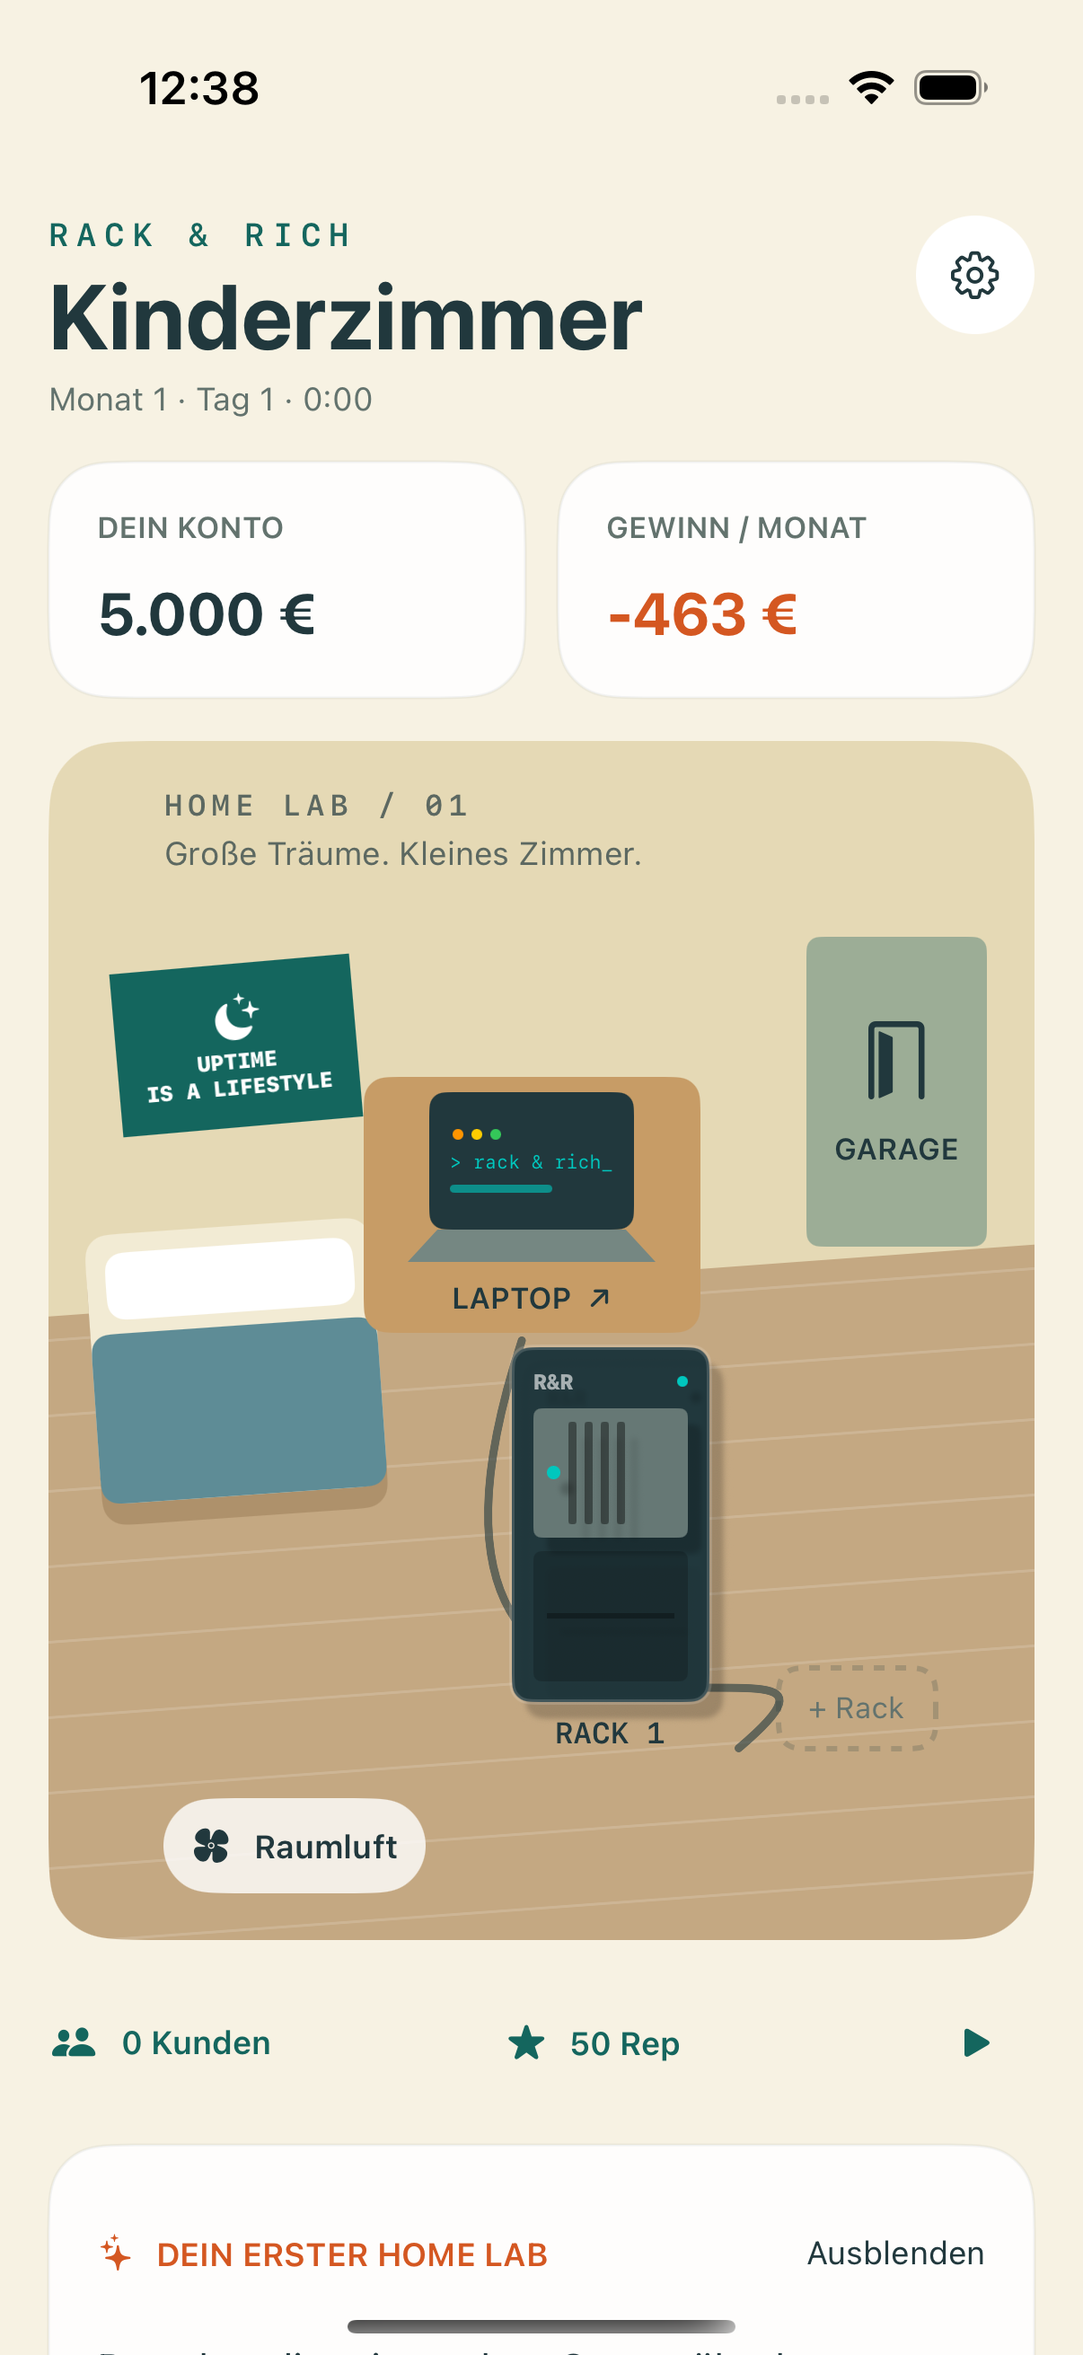
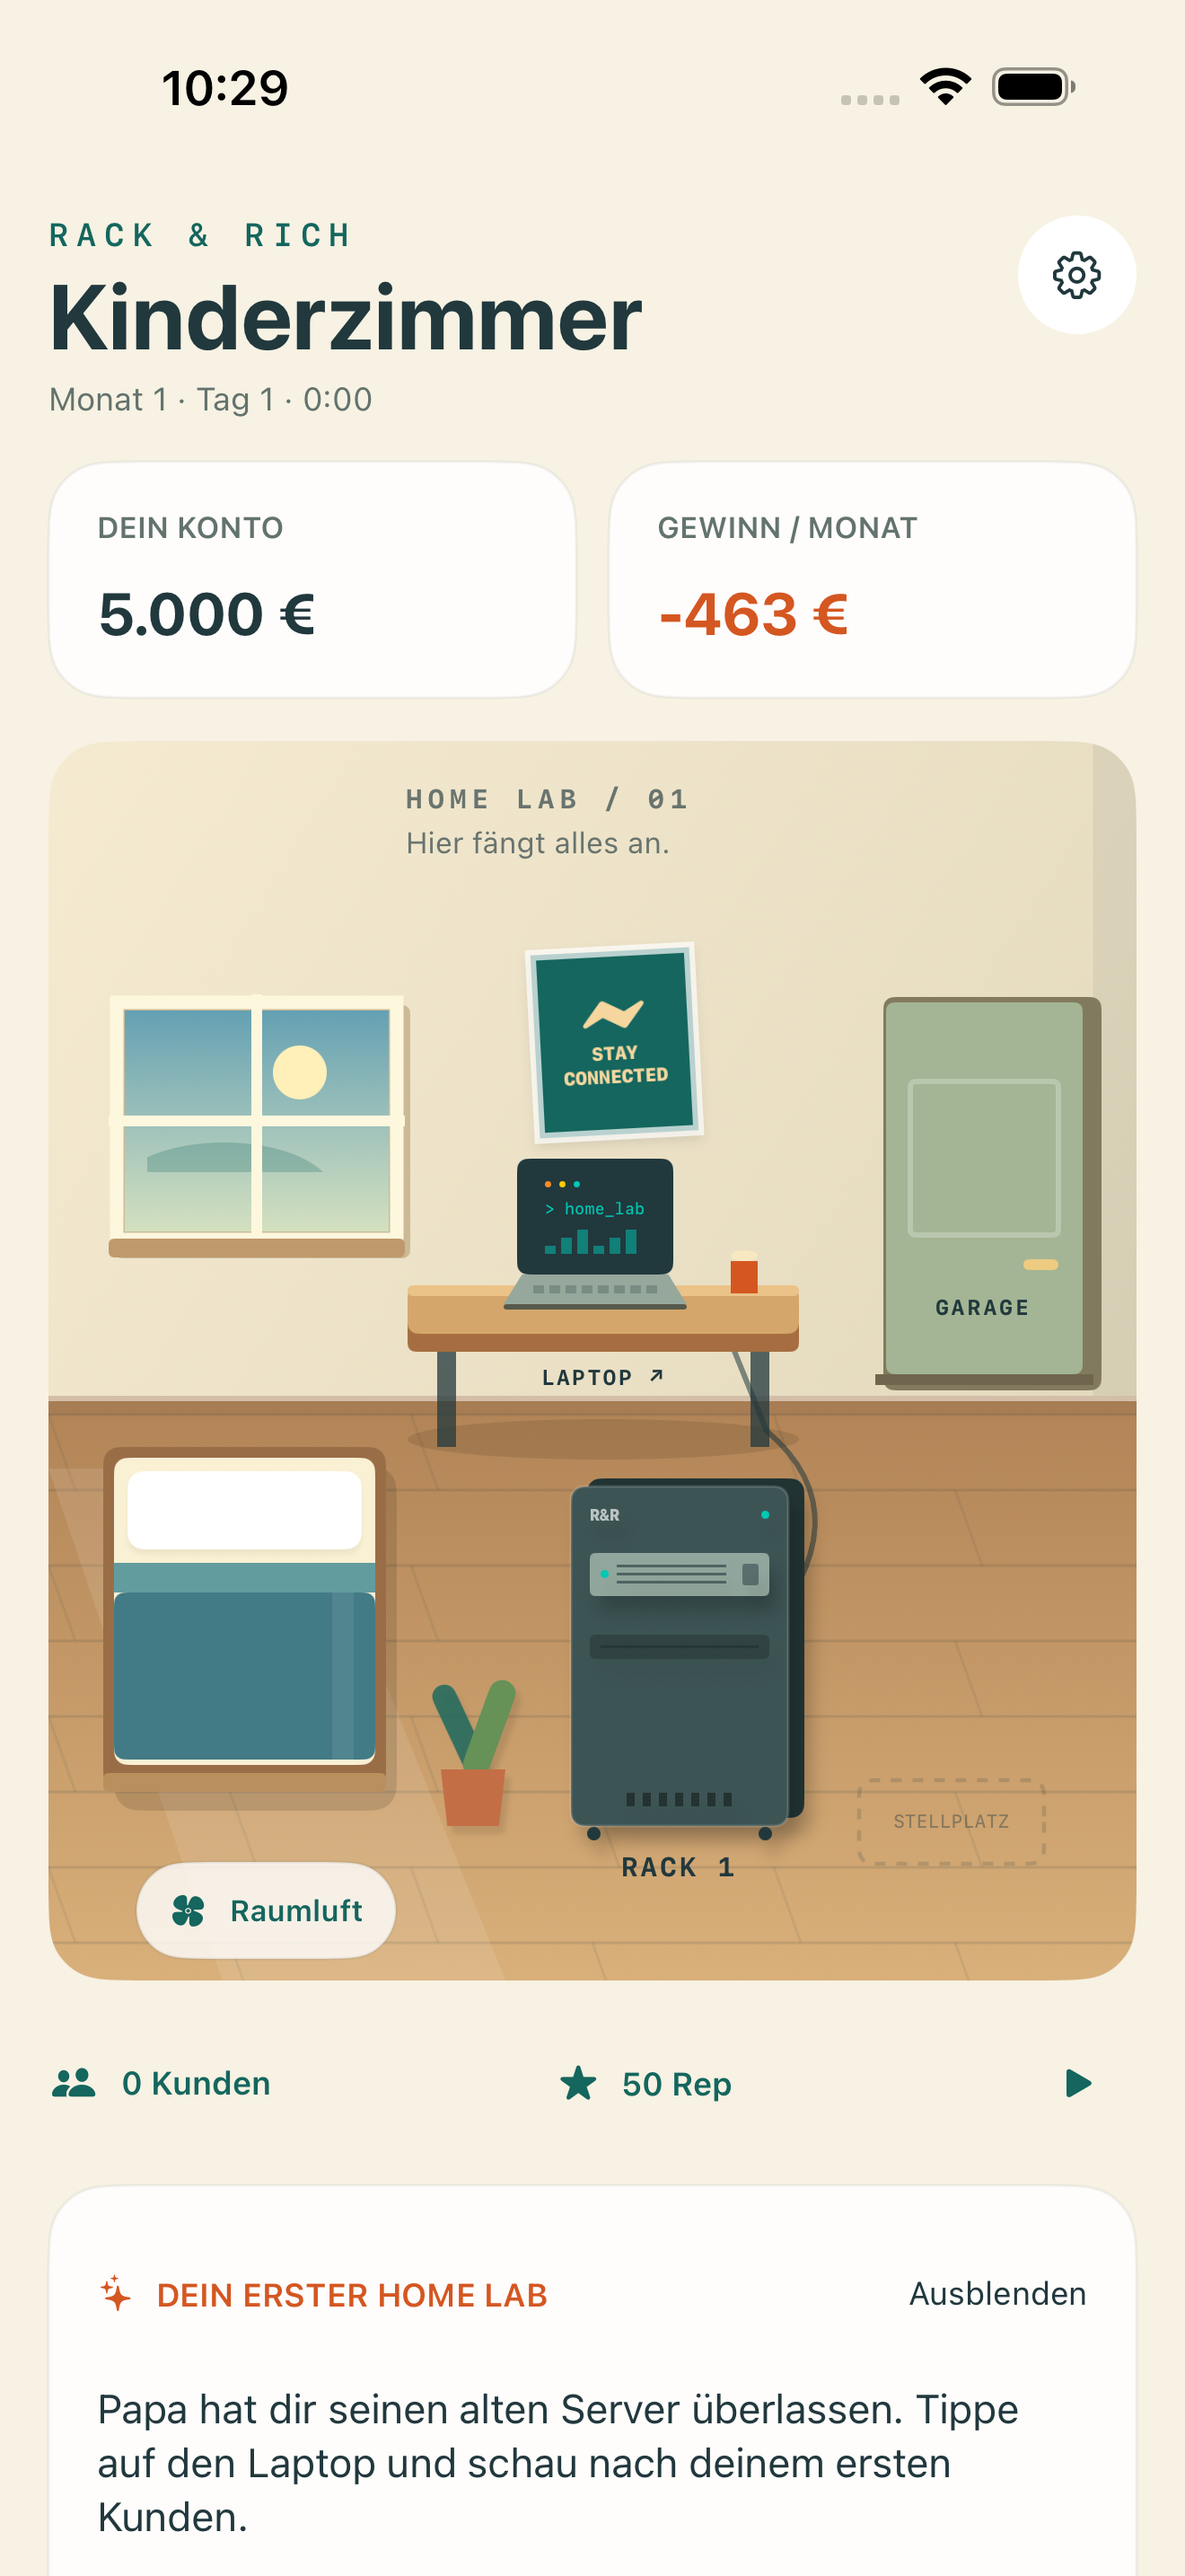
docs(release): record validation and updated room screenshots

diff --git a/games/datacenter-tycoon/Docs/VALIDATION.md b/games/datacenter-tycoon/Docs/VALIDATION.md
@@ -1,17 +1,25 @@
-# Validierungsprotokoll
+# Validierungsprotokoll — v0.1.0
 
-Stand: 14. September 2026. Release-Prüfung läuft noch.
+Stand: 14. September 2026. Die Release-Pipeline prüft den finalen Tag erneut vor der Veröffentlichung.
 
-## Bestätigt
+## Prüfumfang
 
-- 28 Swift-Core-Tests auf Linux/Swift 6.2.3 erfolgreich; dieselben 28 Tests auch auf macOS und im iOS-Simulator erfolgreich.
-- Nativer iOS-Simulatorbuild kompiliert ohne Swift-Compilerwarnungen. Xcode meldet lediglich die nicht benötigte AppIntents-Metadatenextraktion als übersprungen.
-- Save/Load-Roundtrip, atomare Sicherung, beschädigte/neue Save-Versionen, Offline-Cap und Uhrzeit-Rücksprünge getestet.
-- Hardwarekauf, Generationenwechsel, RAM-Slots, Rack-/Raum-Stromgrenzen und Customer-Host-Zuweisung getestet.
-- Monatsabrechnung einschließlich zeitanteiliger Verträge, Tarifwechsel, Strom, Miete und zeitlich begrenzter Starthilfe getestet.
-- Garage mit allen vier Voraussetzungen und erfolgreichem Betrieb getestet. Erfolgszähler endet bei 24 Stunden.
-- Erste iPhone-16-Pro-Screenshots visuell geprüft: Kinderzimmer und Kundenansicht. Keine abgeschnittenen wesentlichen Texte in diesen Ansichten.
-- Ein vom ersten UI-Test gefundener fehlender Schließen-Button in tieferen Navigationsseiten wurde durch eine dauerhafte Rückkehr-Schaltfläche behoben. Erneute Prüfung läuft.
+- 29 Swift-Core-Tests: Economy, monatliche/zeitanteilige Abrechnung, Strom, Tarifwechsel, Hardwarekapazität und -kompatibilität, RAM-/Storage-Slots, Rack-/Raumlimits, Kunde/Host, Tageszeit/Regionen, Reputation, Ausfälle, Garage, Save/Backup und Offline-Fortschritt.
+- Linux: Swift 6.2.3; macOS-/iOS-CI: Xcode 16.4, Apple Swift 6.1.2.
+- UI: iPhone SE (3. Generation) und iPhone 16 Pro Max, iOS 18.5. Je zwei UI-Testfälle: erster Kunde → Rack → App beenden/neu laden → Garagenziel; Garage mit vier Racks → Rack öffnen → Dashboard.
+- Gerätearchiv: Release, ARM64, iOS 17.0+, Bundle `de.dasetwa.rackandrich`, Version `0.1.0`, Build `1`.
+- IPA-Prüfung: ZIP-Integrität, `Payload/RackAndRich.app`, Mach-O-Binary, iPhoneOS-Plattform, Bundle-/Versionswerte und eingebettetes Core-Framework. SHA-256 wird als separates Asset veröffentlicht.
+- Visuelle QA: Kinderzimmer, Garage mit vier Racks, Kundenansicht und Rackverwaltung auf kleinen/großen iPhones. Verwaltung scrollt auf kleinen Displays; die Rückkehr-Schaltfläche bleibt erreichbar. Room-Grafik nach Feedback überarbeitet: klare Abstände, detailliertere Möbel, Rack-Beschriftungen ohne überlagerte Kühlungsschaltfläche.
+- Kein Netzwerk-, Tracking-, Werbe- oder Kauf-SDK im App-Quellcode. Physische GPU-Vermietung und Bursting bleiben deaktiviert/vorbereitet.
+
+## Ergebnisse und behobene Befunde
+
+- Alle Core-Tests lokal bestanden; fünf Balance-Szenarien erfolgreich. Der zusätzliche 29. Test prüft, dass ausgeschaltete Hosts andere Kunden nicht durch fiktiven Upload belasten und reservierte Daten erhalten bleiben.
+- [Vollständiger Build mit überarbeiteter Grafik](https://github.com/DasEtwa/Mini-Game/actions/runs/34832943039): Core- und UI-Tests, Gerätearchiv, IPA-Prüfung und Artefakt-Upload erfolgreich.
+- [Abschlussprüfung mit Ausfall-Korrektur](https://github.com/DasEtwa/Mini-Game/actions/runs/34833672267): 29 Core-Tests, beide iPhone-UI-Läufe, Gerätearchiv, IPA-Prüfung und Artefakt-Upload erfolgreich. Der Release-Job veröffentlicht zusätzlich nur nach erfolgreicher Prüfung des Tags.
+- Swift-Compilerwarnungen werden als Fehler behandelt. Xcodes Hinweis zur übersprungenen AppIntents-Metadatenextraktion ist erwartet: Die App bietet keine AppIntents an. GitHub meldet bei den v4-Actions die automatische Node-24-Umstellung; die Actions funktionieren.
+- Behoben: zu komplexe numerische Testexpression, fehlende Schließen-Aktion in tiefer Navigation, falscher XcodeGen-Versionsdefault, endlos wachsender Erfolgszähler, möglicher veralteter Lifecycle-Ladevorgang und Uploadverbrauch ausgeschalteter Hosts.
+- Die Screenshots im README stammen aus echten Simulatorläufen, nicht aus Mockups. Der Garage-Test verwendet eine ausschließlich im Debug-Build verfügbare Fixture; BalanceLab erreicht die Garage dagegen ausschließlich über normale Gameplay-APIs.
 
 ## Balancing
 
@@ -25,10 +33,8 @@ Normales Tempo, automatisierte aktive Strategie, keine Geld-Cheats:
 | 123 | 36,3 Minuten | 60 | 14.009 € | 3 |
 | 999 | 36,3 Minuten | 64 | 13.881 € | 3 |
 
-Die Zahlung am Monatswechsel führt bei dieser zügigen Strategie zum gleichen Freischaltmonat; die wirtschaftlichen Ergebnisse unterscheiden sich nach Seed. Das ist ein Simulationstest, keine gemessene menschliche Spielzeit. 2×/3× beschleunigen entsprechend.
+Die Zahlung am Monatswechsel führt bei dieser zügigen Strategie zum gleichen Freischaltmonat; die wirtschaftlichen Ergebnisse unterscheiden sich nach Seed. Die Prüfung fordert für jeden Seed eine erfolgreiche Garage innerhalb von 30–90 Minuten bei 1×. Das ist ein Simulationstest, keine gemessene menschliche Spielzeit oder Garantie für jede Strategie. 2×/3× beschleunigen entsprechend.
 
-## Noch zu bestätigen
+## Grenze der Prüfung
 
-- Erweiterte UI-Tests auf kompaktem und großem iPhone einschließlich Neustart und Garage.
-- Release-Gerätearchiv, IPA-Prüfung und hochgeladenes Release-Asset.
-- Physische Installation/Signierung über SideStore und Spielgefühl auf einem echten iPhone: hier ist kein iPhone angeschlossen. Simulator- und Core-Nachweise ersetzen diesen letzten Gerätetest nicht.
+Hier ist kein physisches iPhone angeschlossen. SideStore-Signierung und Installation auf einem echten Gerät, Geräteleistung und subjektives Spielgefühl wurden deshalb nicht praktisch bestätigt. Die IPA ist ein erfolgreicher unsignierter Gerätebuild; SideStore muss sie mit dem Account auf dem iPhone signieren. Simulator-/Core-Tests ersetzen diesen letzten Gerätetest nicht. Derzeit nur deutsche Oberfläche und feste helle Spielpalette; keine vollständige VoiceOver-/Dynamic-Type-Zertifizierung.

diff --git a/games/datacenter-tycoon/README.md b/games/datacenter-tycoon/README.md
@@ -5,6 +5,7 @@ Ein gemütliches, vollständig lokales iOS-Tycoon: Papas alter Server, ein Kinde
 **Version:** 0.1.0 · **Ziel:** Milestone 1 · **iOS:** 17 oder neuer · **Technik:** SwiftUI, Swift Charts, Foundation, AVFoundation. Keine Laufzeit-Abhängigkeiten von Drittanbietern.
 
 <img src="Docs/Screenshots/bedroom.png" width="280" alt="Kinderzimmer mit antippbarem Laptop, Bett und erstem Serverrack auf einem iPhone-Simulator">
+<img src="Docs/Screenshots/garage.png" width="280" alt="Garage mit vier Racks, Werkbank und Kühlung">
 
 ## Spielen
 
